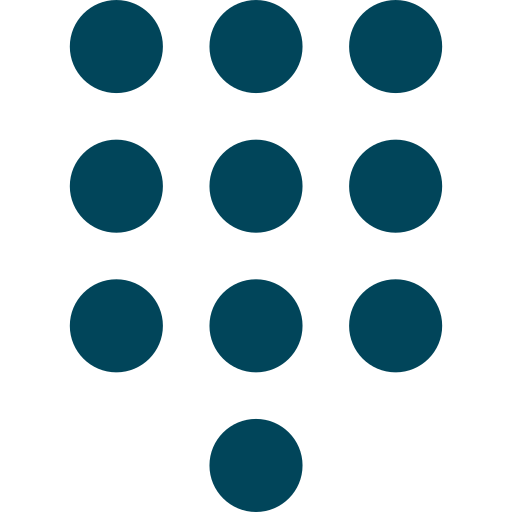
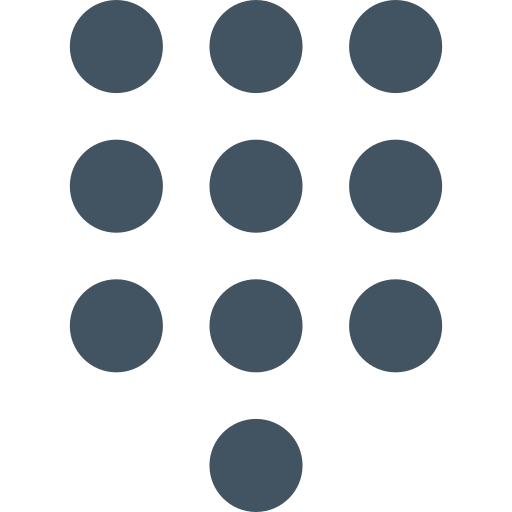
Done with the CSS part in the components

diff --git a/import-questions/src/App.css b/import-questions/src/App.css
@@ -7,7 +7,7 @@
   background-color: #f8f8f8;
 }
 tbody {
-  color: #01455a;
+  color: #64717d;
 }
 .container {
   width: 60%;
@@ -19,7 +19,7 @@ tbody {
 }
 h2 {
   margin-left: 20px;
-  color: gray;
+  color: #444e57;
   font-size: 24px;
   font-weight: 600;
 }
@@ -34,12 +34,12 @@ h2 {
   display: flex;
   justify-content: center;
   align-items: center;
-  background-color: #e8e8e8;
-  border-bottom: 3px solid #0180a6;
+  background-color: #f5f5f5;
+  border-bottom: 3px solid #1b507f;
   /* margin-top: 20px; */
 }
 .fa-search {
-  color: gray;
+  color: #b0b4b7;
   margin-left: 10px;
   margin-right: 10px;
 }
@@ -47,7 +47,7 @@ h2 {
   /* padding: 8px 30px; */
   height: 30px;
   width: 250px;
-  background-color: #e8e8e8;
+  background-color: #f5f5f5;
   border: none;
   /* border-bottom: 3px solid #0180a6; */
   outline: none;
@@ -55,15 +55,18 @@ h2 {
   border-left: 0;
   border-top: 0;
 }
+.form-control::-webkit-input-placeholder {
+  color: #b0b4b7;
+}
 .btn {
   /* padding: 8px 18px; */
   height: 35px;
-  width: 200px;
+  width: 210px;
   display: inline-flex;
   justify-content: center;
   align-items: center;
-  background: #0180a6;
-  color: #fff;
+  background: #194f7e;
+  color: #cfdae3;
   border-radius: 4px;
   cursor: pointer;
   /* margin-top: 15px; */
@@ -71,10 +74,10 @@ h2 {
 }
 .btn button {
   border: none;
-  color: #fff;
+  color: #cfdae3;
   font-size: 14px;
   cursor: pointer;
-  background: #0180a6;
+  background: #194f7e;
   margin-right: 5px;
 }
 .fa-plus-circle {
@@ -107,7 +110,7 @@ h2 {
 .content-table thead {
 }
 .content-table th {
-  color: grey;
+  color: #aaaaaa;
   text-align: left;
 }
 .checkbox-test {
@@ -163,7 +166,7 @@ input[type="checkbox"] {
   height: 18px;
   width: 18px;
   background-color: #fff;
-  border: 2px solid #01455a;
+  border: 2px solid #425462;
   cursor: pointer;
   display: flex;
   align-items: center;
@@ -174,12 +177,12 @@ input[type="checkbox"]:after {
   font-weight: 600;
   font-size: 15px;
   content: "\f00c";
-  color: #01455a;
+  color: #2c5e88;
   display: none;
 }
 input[type="checkbox"]:checked {
   background-color: #fff;
-  border: 2px solid #01455a;
+  border: 2px solid #425462;
 }
 input[type="checkbox"]:checked:after {
   display: block;
@@ -196,10 +199,10 @@ input[type="checkbox"]:checked:after {
   display: none;
 }
 .radio-radio {
-  width: 1.25em;
-  height: 1.25em;
-  border: 2px solid #01455a;
-  border-radius: 50%;
+  width: 16px;
+  height: 16px;
+  border: 2px solid #425462;
+  border-radius: 100%;
   margin-right: 10px;
   box-sizing: border-box;
   padding: 2px;
@@ -209,8 +212,8 @@ input[type="checkbox"]:checked:after {
   width: 100%;
   height: 100%;
   display: block;
-  background: #01455a;
-  border-radius: 50%;
+  background: #425462;
+  border-radius: 100%;
 
   /* transform: scale(0);
   transition: transform 0.15s; */
@@ -223,7 +226,7 @@ input[type="checkbox"]:checked:after {
   border: black;
 } */
 .fa-text-width {
-  color: #01455a;
+  color: #425462;
   padding: 2px;
   display: inline-flex;
   justify-content: center;

diff --git a/import-questions/src/Components/Button.js b/import-questions/src/Components/Button.js
@@ -5,7 +5,7 @@ const Button = () => {
     <div className="btn">
       <button>
         <i className="fas fa-plus-circle"></i>
-        Add selected questions
+        Add 3 selected questions
       </button>
     </div>
   );
